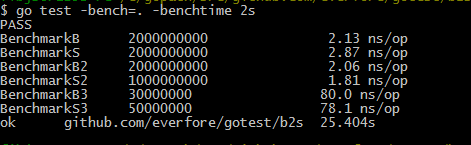
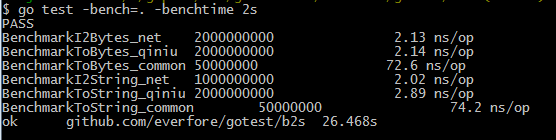
test

diff --git a/b2s/b22s_test.go b/b2s/b22s_test.go
@@ -47,32 +47,32 @@ func TestDeep2(t *testing.T) {
 	t.Log(str2)
 }
 
-func BenchmarkB(b *testing.B) {
-	for i := 0; i < b.N; i++ {
-		_ = ToBytes(v)
-	}
-}
-func BenchmarkS(b *testing.B) {
-	for i := 0; i < b.N; i++ {
-		_ = ToString(data)
-	}
-}
-func BenchmarkB2(b *testing.B) {
+func BenchmarkI2Bytes_net(b *testing.B) {
 	for i := 0; i < b.N; i++ {
 		_ = I2Bytes(v)
 	}
 }
-func BenchmarkS2(b *testing.B) {
+func BenchmarkToBytes_qiniu(b *testing.B) {
 	for i := 0; i < b.N; i++ {
-		_ = I2String(data)
+		_ = ToBytes(v)
 	}
 }
-func BenchmarkB3(b *testing.B) {
+func BenchmarkToBytes_common(b *testing.B) {
 	for i := 0; i < b.N; i++ {
 		_ = []byte(v)
 	}
 }
-func BenchmarkS3(b *testing.B) {
+func BenchmarkI2String_net(b *testing.B) {
+	for i := 0; i < b.N; i++ {
+		_ = I2String(data)
+	}
+}
+func BenchmarkToString_qiniu(b *testing.B) {
+	for i := 0; i < b.N; i++ {
+		_ = ToString(data)
+	}
+}
+func BenchmarkToString_common(b *testing.B) {
 	for i := 0; i < b.N; i++ {
 		_ = string(data)
 	}
